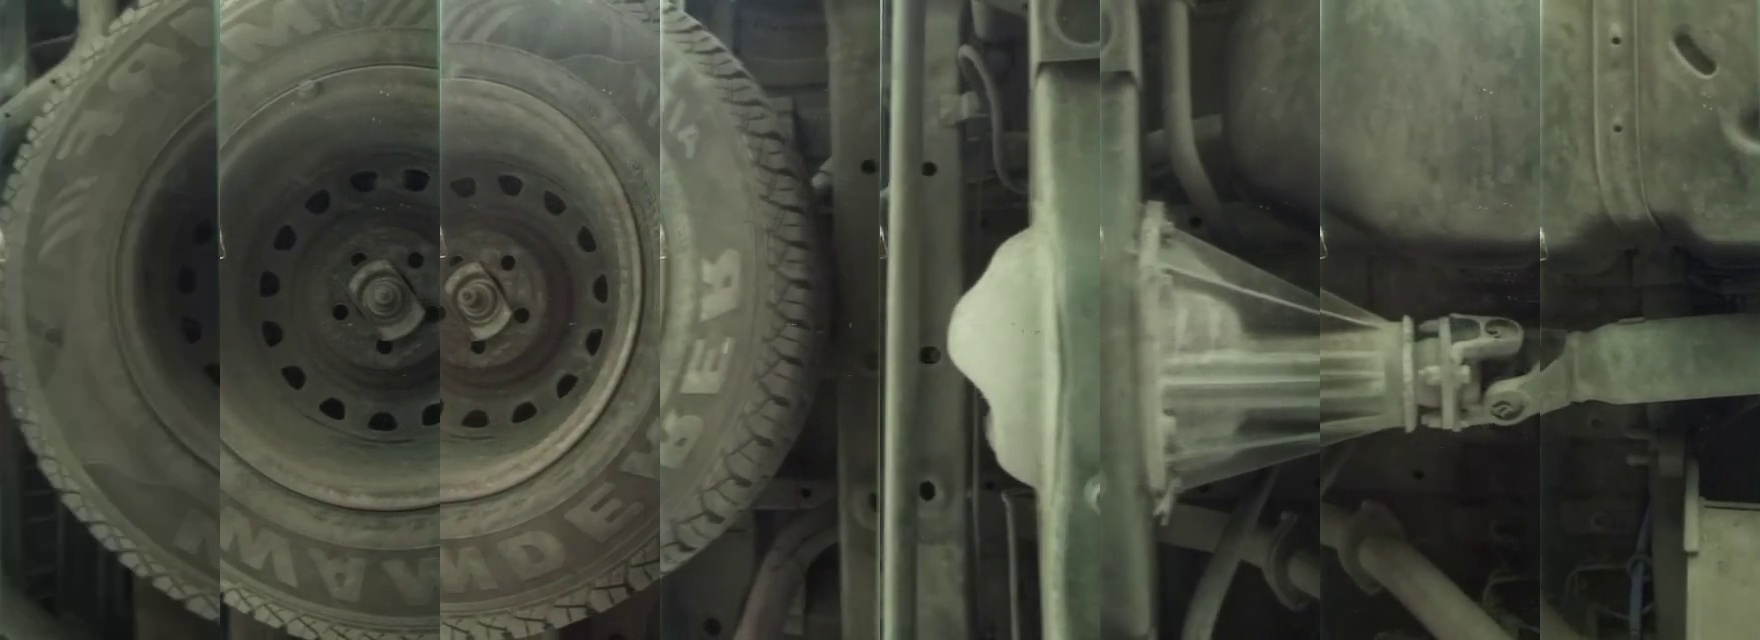
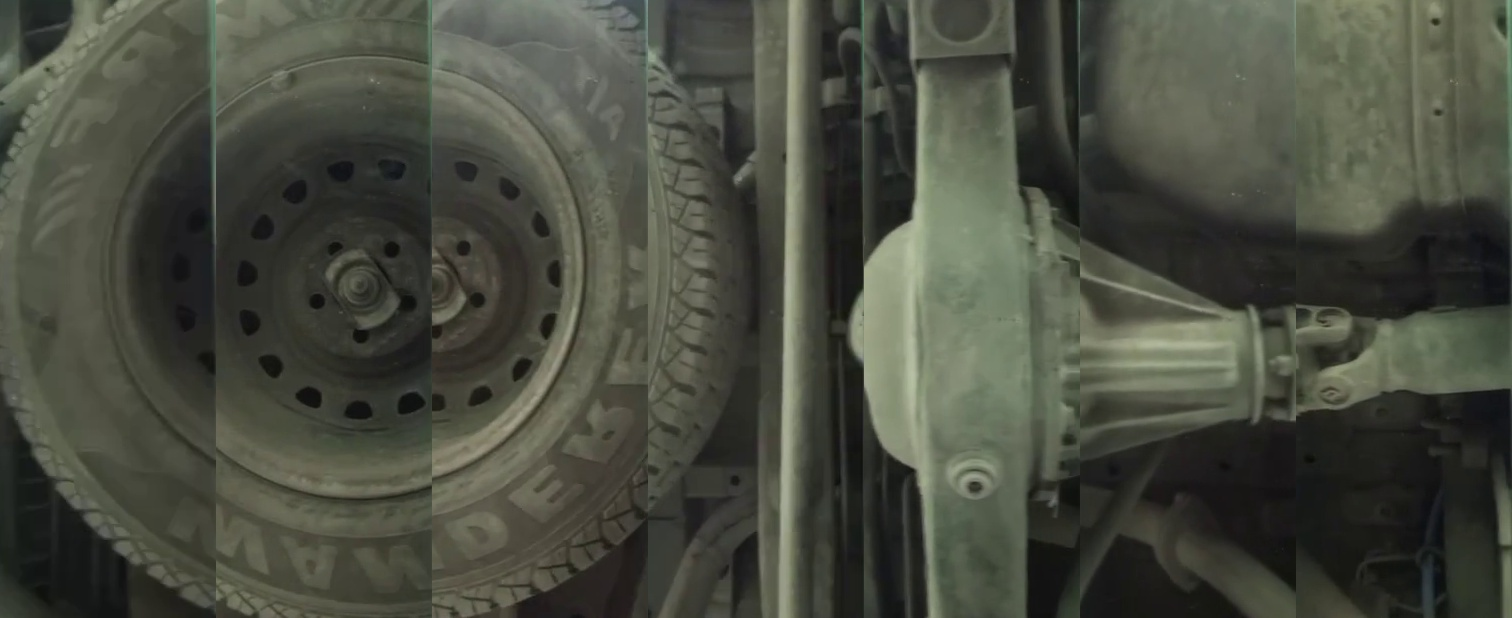
Bounding box code added.

diff --git a/boundingBox.py b/boundingBox.py
@@ -1,0 +1,63 @@
+import cv2
+import tkinter as tk
+from tkinter import messagebox
+
+# Global variables for bounding box selection
+bbox = None
+cropping = False
+x_start, y_start, x_end, y_end = 0, 0, 0, 0
+
+def select_bbox(event, x, y, flags, param):
+    """Handles mouse events for selecting the bounding box."""
+    global x_start, y_start, x_end, y_end, cropping, bbox
+    if event == cv2.EVENT_LBUTTONDOWN:
+        x_start, y_start = x, y
+        cropping = True
+    elif event == cv2.EVENT_MOUSEMOVE and cropping:
+        x_end, y_end = x, y
+    elif event == cv2.EVENT_LBUTTONUP:
+        x_end, y_end = x, y
+        cropping = False
+        bbox = (min(x_start, x_end), min(y_start, y_end), abs(x_end - x_start), abs(y_end - y_start))
+        print(f"Selected Bounding Box: {bbox}")
+        messagebox.showinfo("Bounding Box Selected", f"Coordinates: {bbox}")
+        cv2.destroyAllWindows()
+
+def show_first_frame():
+    """Displays the first frame of the video and lets the user select a bounding box."""
+    global bbox
+
+    # Load the first frame of the video
+    cap = cv2.VideoCapture("video.mp4")
+    ret, frame = cap.read()
+    cap.release()
+
+    if not ret:
+        messagebox.showerror("Error", "Cannot read video file")
+        return
+
+    frame = cv2.rotate(frame, cv2.ROTATE_90_COUNTERCLOCKWISE)
+
+    cv2.namedWindow("Select Bounding Box")
+    cv2.setMouseCallback("Select Bounding Box", select_bbox)
+
+    while True:
+        temp_frame = frame.copy()
+        if bbox:
+            x, y, w, h = bbox
+            cv2.rectangle(temp_frame, (x, y), (x + w, y + h), (0, 255, 0), 2)
+        cv2.imshow("Select Bounding Box", temp_frame)
+        key = cv2.waitKey(1) & 0xFF
+        if key == 27 or bbox:  # Press ESC or select a bounding box to exit
+            break
+
+    cv2.destroyAllWindows()
+
+# Tkinter GUI
+root = tk.Tk()
+root.title("Bounding Box Selector")
+
+select_button = tk.Button(root, text="Select Bounding Box", command=show_first_frame)
+select_button.pack(pady=20)
+
+root.mainloop()

diff --git a/main.py b/main.py
@@ -21,7 +21,7 @@ def extract_frames():
     os.makedirs(output_folder, exist_ok=True)
 
     # Cropping coordinates
-    x, y, width, height = 160, 0, 220, 640
+    x, y, width, height = 166, 12, 216, 618
 
     while True:
         ret, frame = cap.read()
